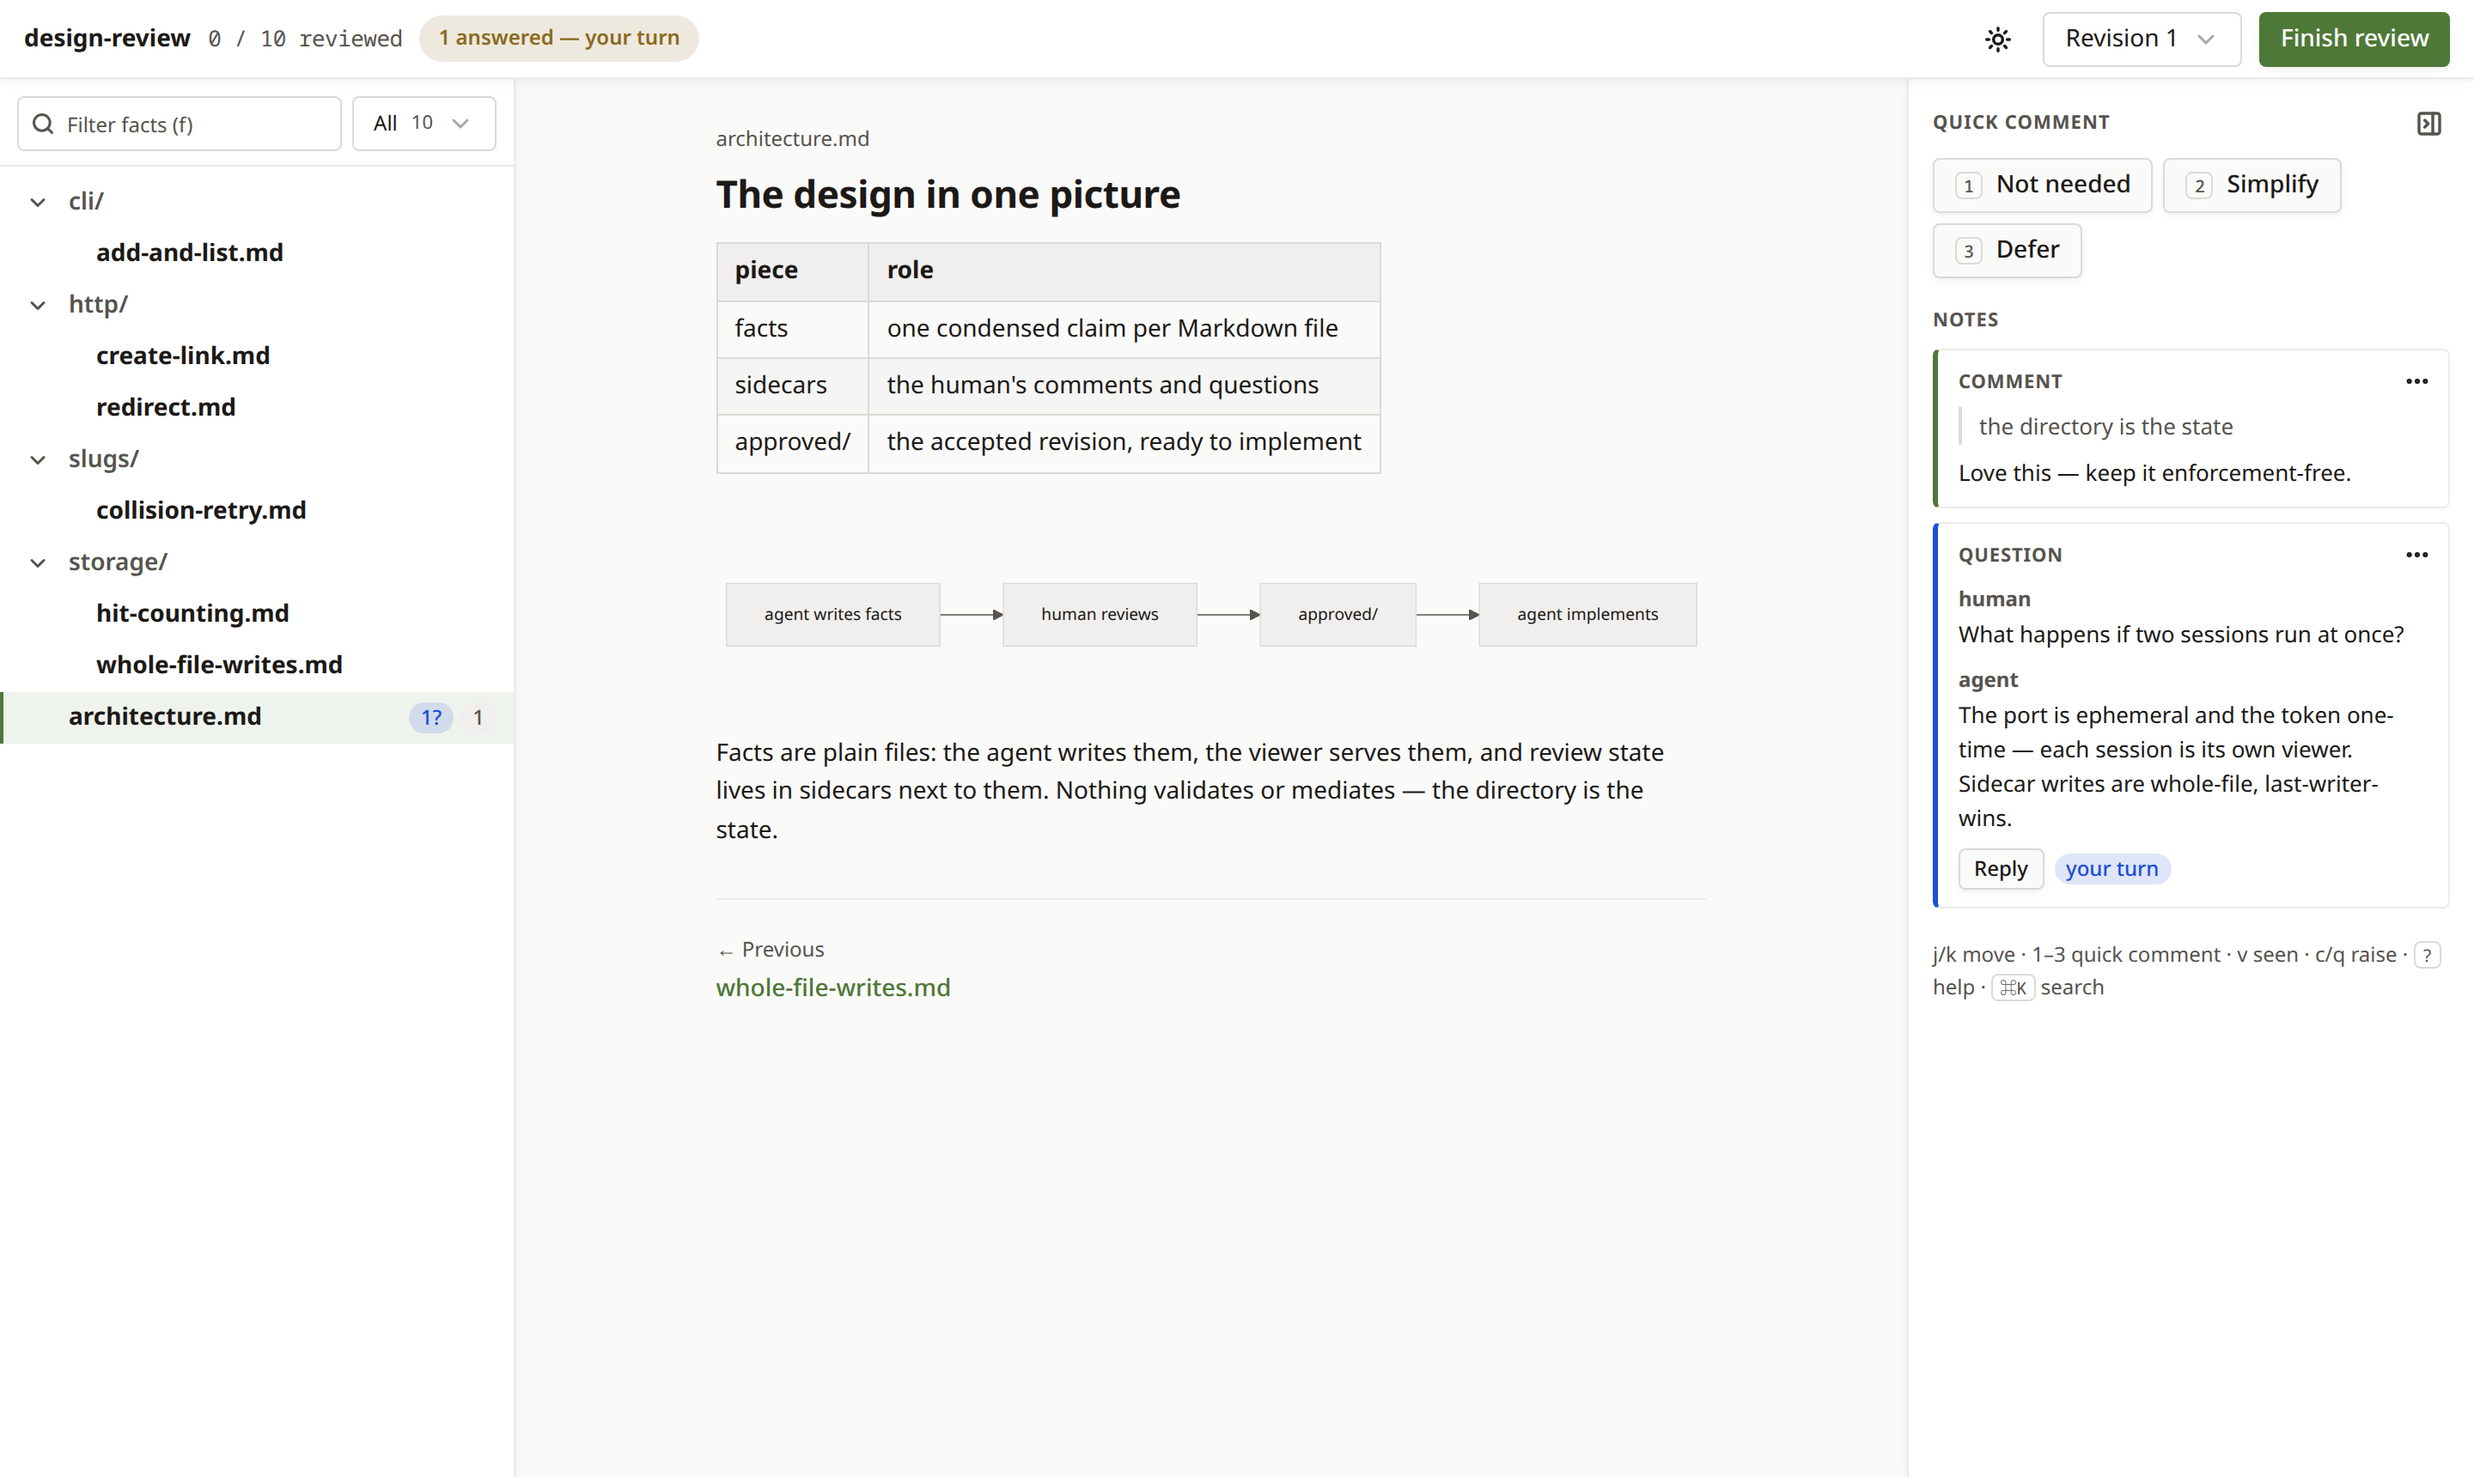
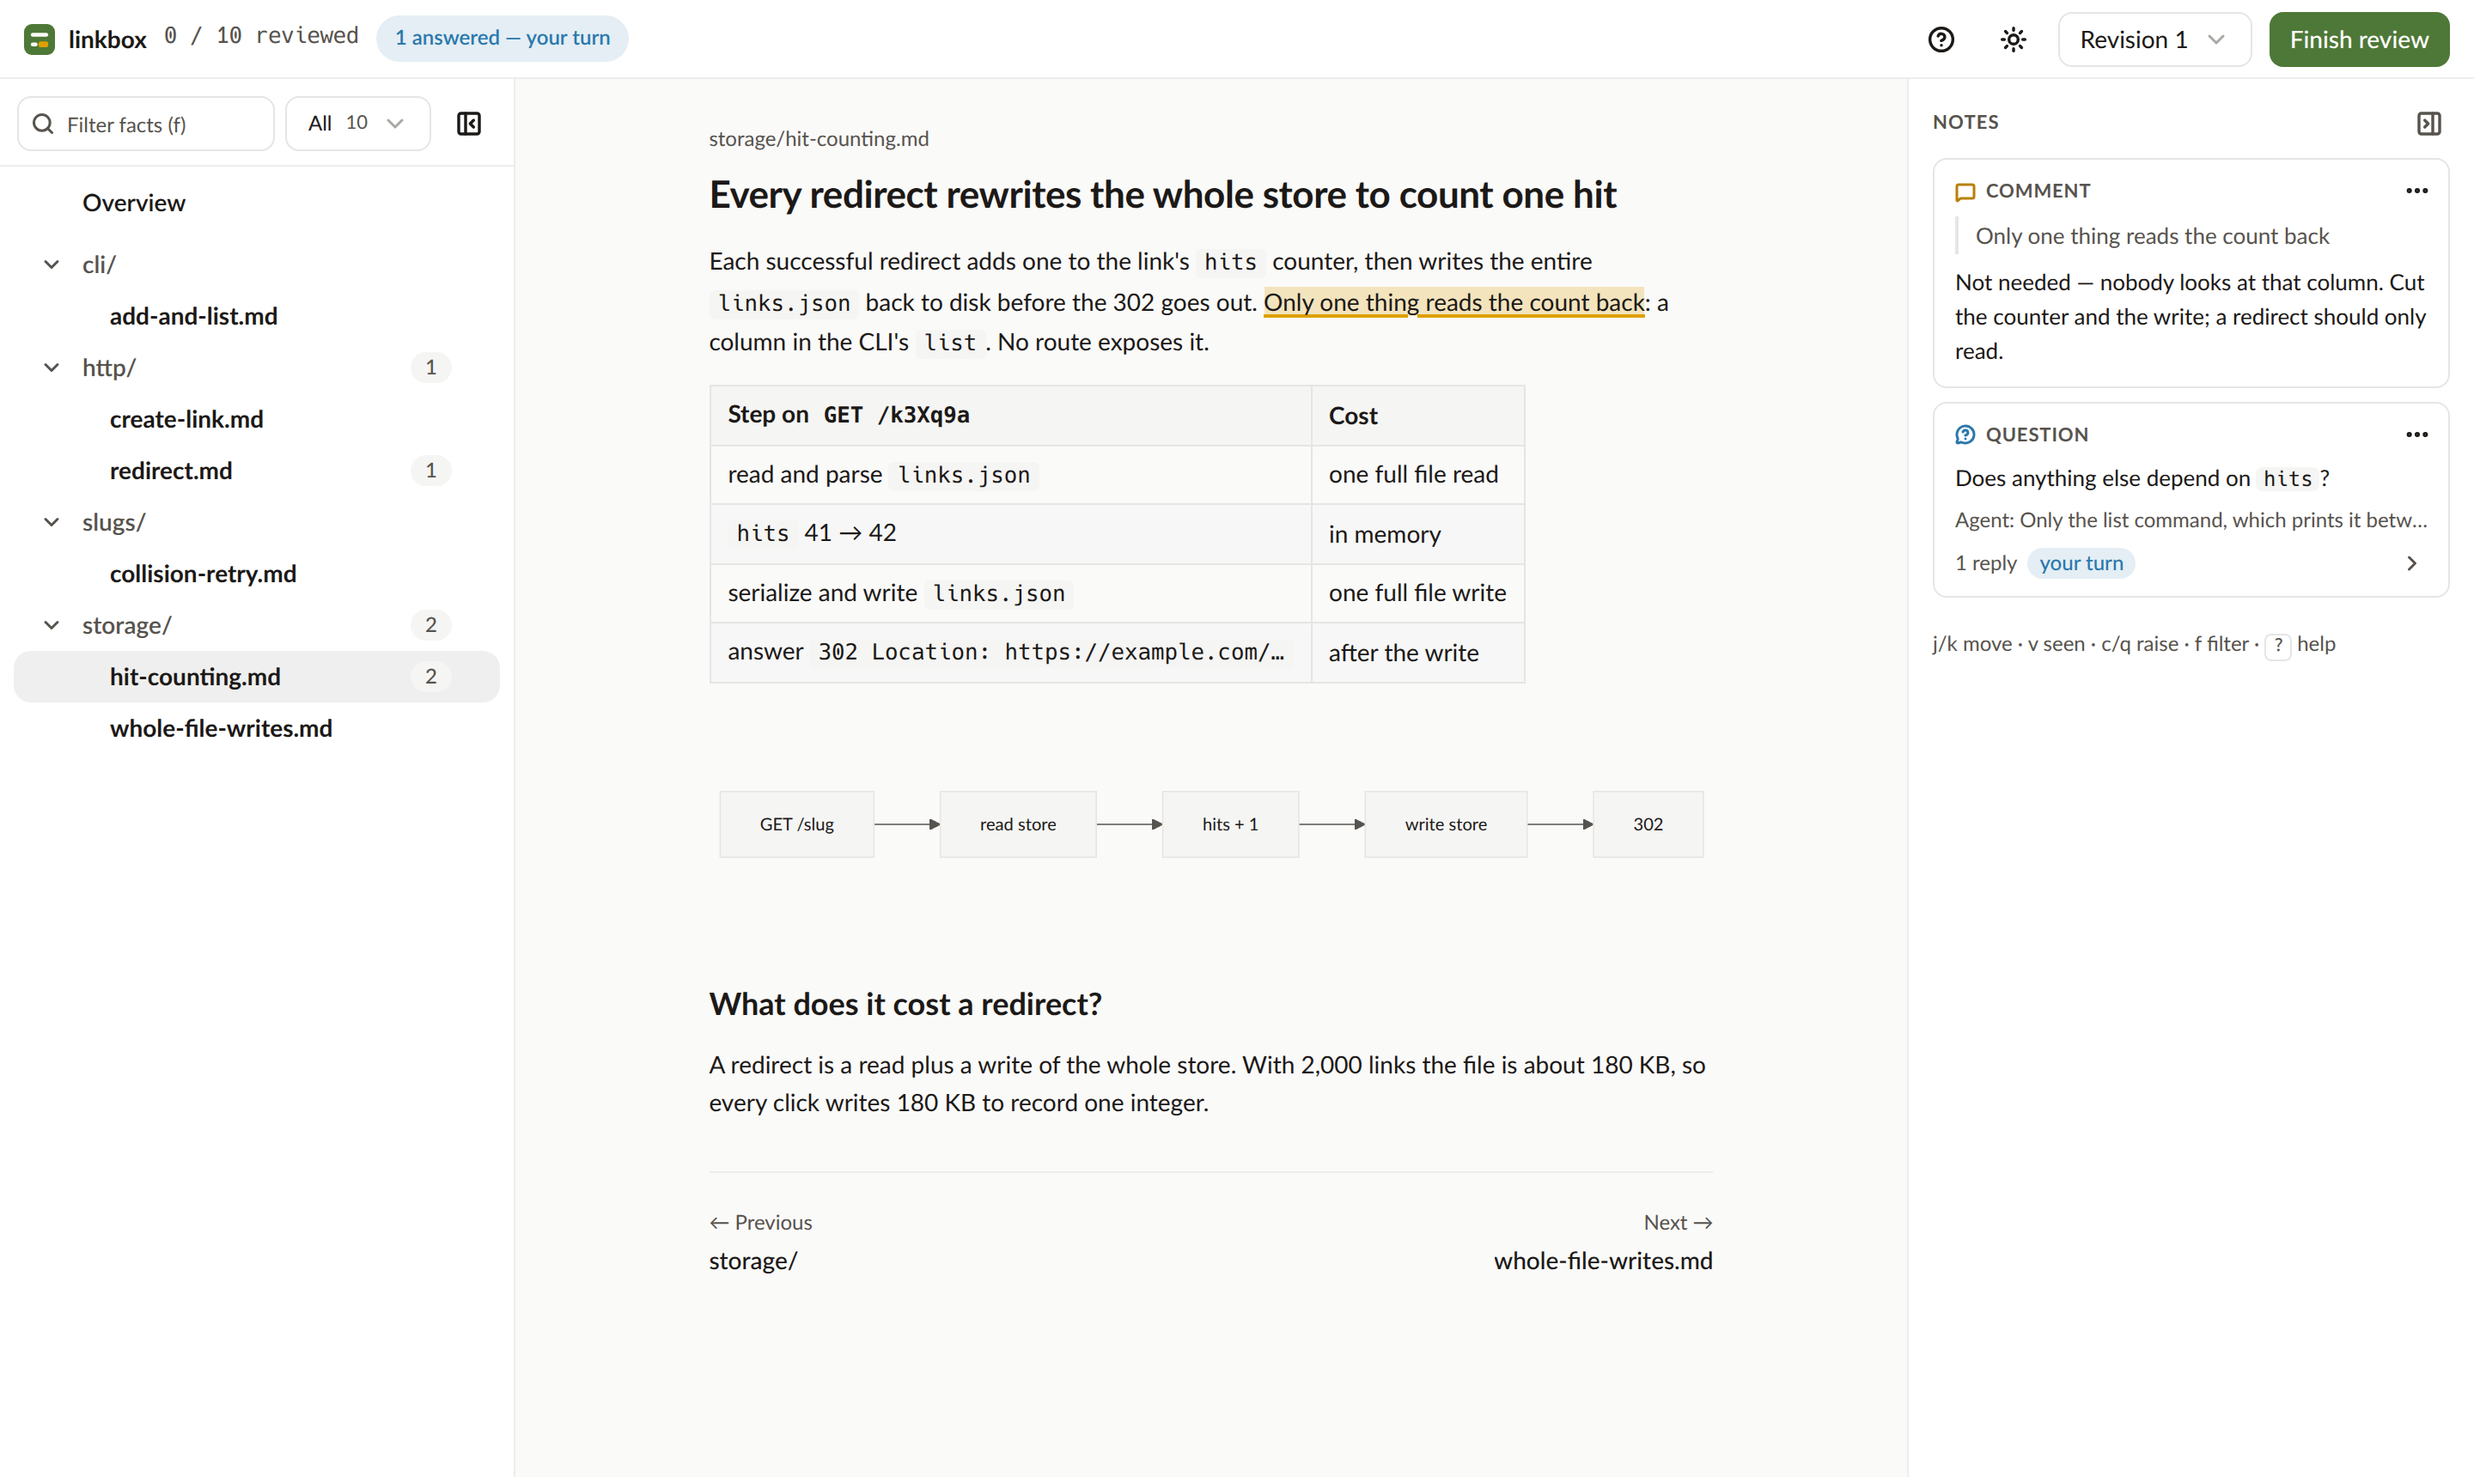
README: audit-first framing — cut what isn't needed, take back control
The pitch leads with what Gloss is used for: turning a system, its
design, or a plan into small facts audited one by one, so the extras
an agent added nobody asked for can be struck. The npm description
follows, and the screenshot shows the current viewer on a staged fact
with a "not needed" comment and an answered question.

Claude-Session: https://claude.ai/code/session_013kbfcsFar6jeSiRG3VzQhu

diff --git a/README.md b/README.md
@@ -1,25 +1,32 @@
 # Gloss
 
-**Fact-first review ergonomics for agent-built software.** Gloss turns
-whatever your agent built into a fact tree you review — comment to
-change it, ask to understand it, approve to build it.
+**Audit what your agent built, one claim at a time.** Gloss turns the
+state of a system, its design, or a plan into a tree of small Markdown
+facts you can check in detail — cut what isn't needed, change what's
+wrong, and take back control of what actually gets built.
+
+Agent-built software collects things nobody asked for: a fallback
+here, an extra mode there, two components where one would do. In a
+long plan or a large diff they slip past. Split into one decidable
+claim per file, each is small enough to judge and easy to strike.
 
 ![The Gloss viewer](docs/viewer.png)
 
 ## How it works
 
-1. Point the skill at anything — a feature, the recent changes, a
-   design doc, a whole repo. Your prompt is the scope.
+1. Point the skill at anything — a running system, a feature, the
+   recent changes, a design doc, a plan, a whole repo. Your prompt is
+   the scope.
 2. The agent condenses what it finds into a **fact tree**: small,
    decidable claims, each carrying the evidence to judge it —
    screenshots, transcripts, probes captured from the running app —
-   so you never read the source.
+   so you audit the design without reading the source.
 3. You review with the moves you know from code review. **Comment**
-   on a fact to change the design: the agent resolves every comment
-   in the next revision of the tree. **Ask** to understand: the agent
-   answers in the thread, live, while you keep reading. Notes on the
-   overview, the tree's front page, speak to the review as a whole —
-   its altitude, its focus, or a request for a cold read.
+   on a fact to cut, simplify, or change it: the agent resolves every
+   comment in the next revision of the tree. **Ask** to understand:
+   the agent answers in the thread, live, while you keep reading.
+   Notes on the overview, the tree's front page, speak to the review
+   as a whole — its altitude, its focus, or a request for a cold read.
 4. When the tree says what you mean, approve it. The approved design
    is what the agent implements.
 
